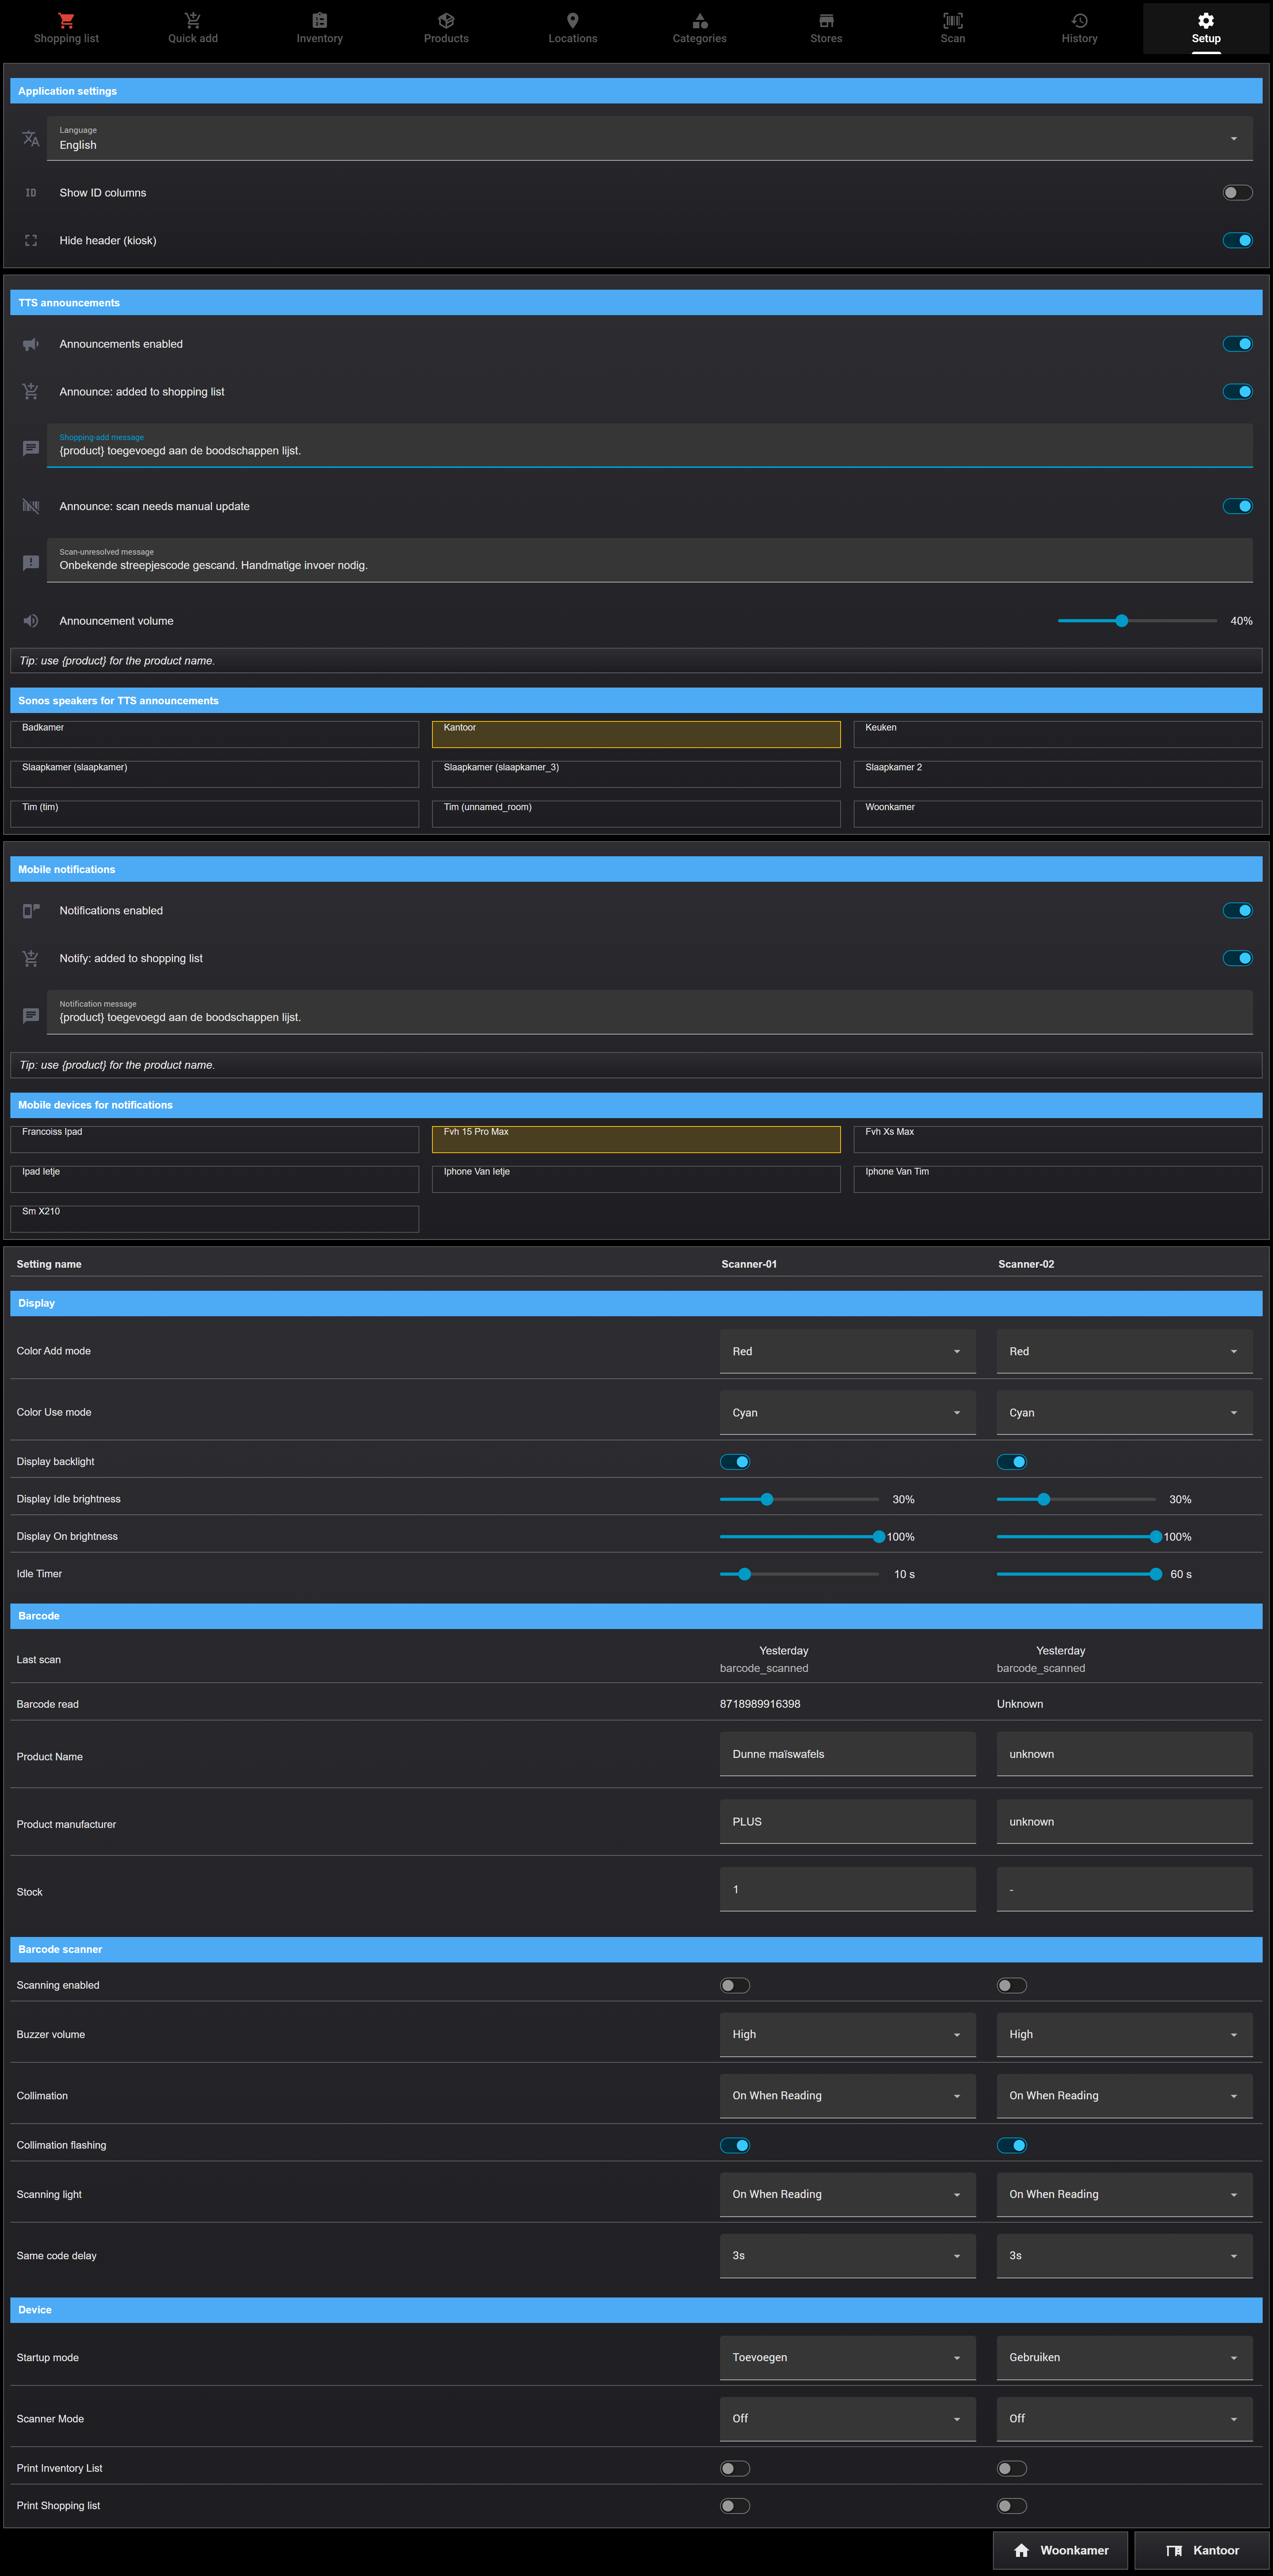
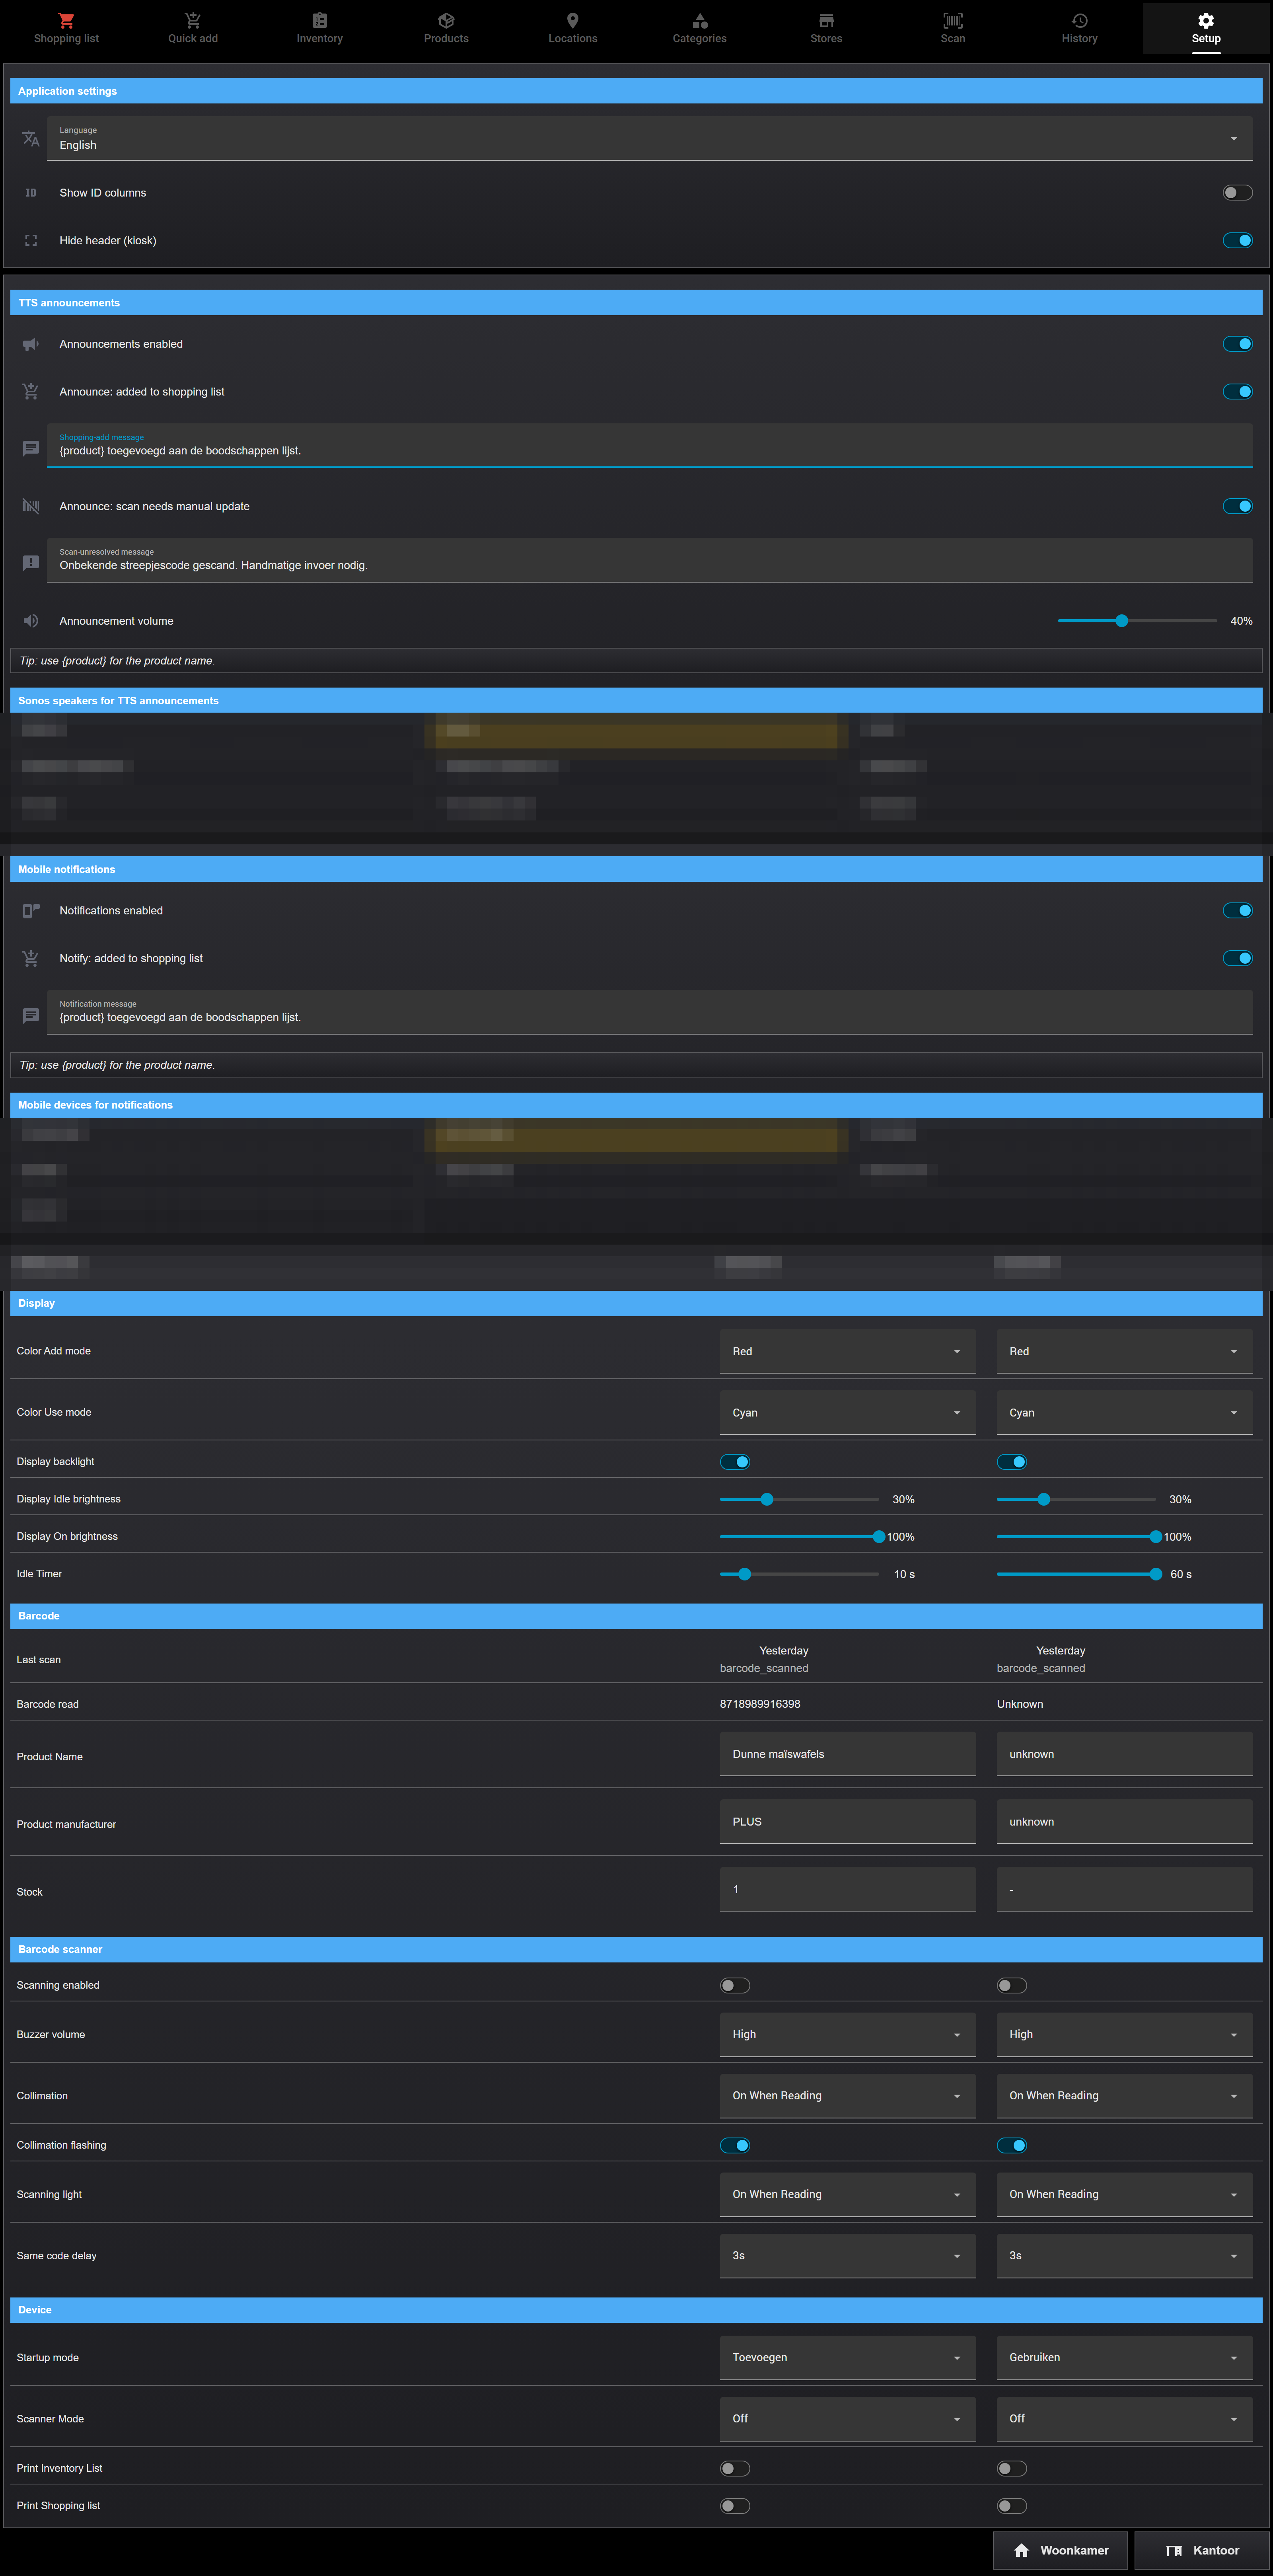
chore(privacy): redact PII in screenshots; remove prod IP and surname from docs
- Pixelate personal device names and Sonos speaker names in
  09-setup, 13-tts, 14-mobile-notifications screenshots
- Genericize production LAN IP in themes/vh_inventory.yaml comment
- Drop surname from optional theme name in INSTALLATION.md

Changed region(s): [[0.0, 0.2496, 1.0, 0.3432], [0.0, 0.4368, 1.0, 0.4992]]

diff --git a/docs/INSTALLATION.md b/docs/INSTALLATION.md
@@ -173,7 +173,7 @@ automatically). The two resources the dashboard registers itself are `button-car
 > dashboard. The dashboard sets `kiosk_mode.hide_header` to a Jinja template bound to
 > `input_boolean.vh_kiosk_mode`, so the header hides only while the Setup-tab toggle is on.
 
-*(Optional)* The default dashboard theme is **Mushroom Square Shadow Hemert** (a custom
+*(Optional)* The default dashboard theme is a custom **Mushroom Square Shadow** variant (a
 theme based on the Mushroom theme). Install the Mushroom theme via HACS if you want the
 exact look, or remove/replace the `theme` key in `mk_dash.py`.
 